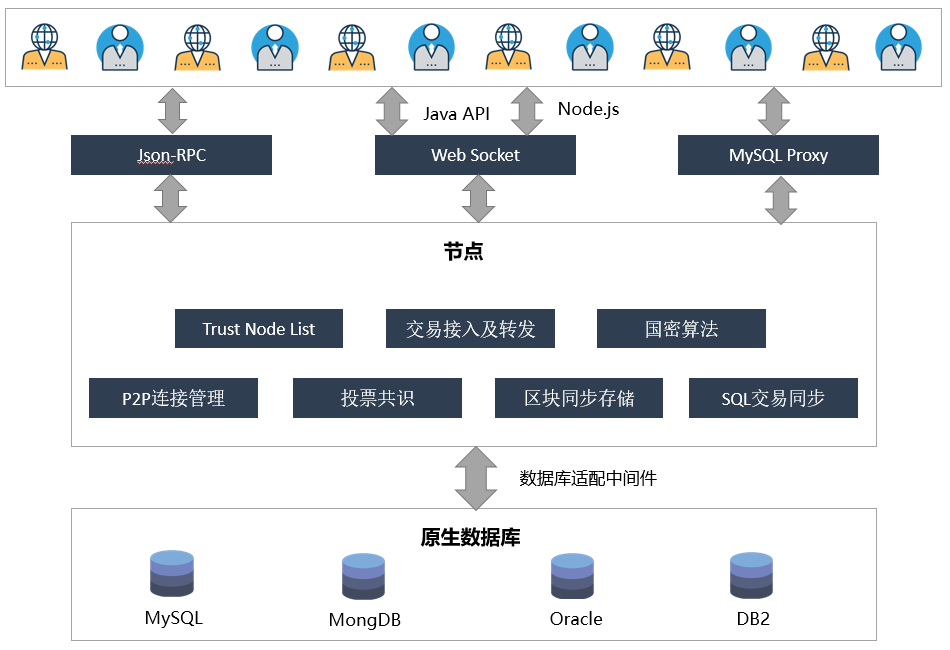
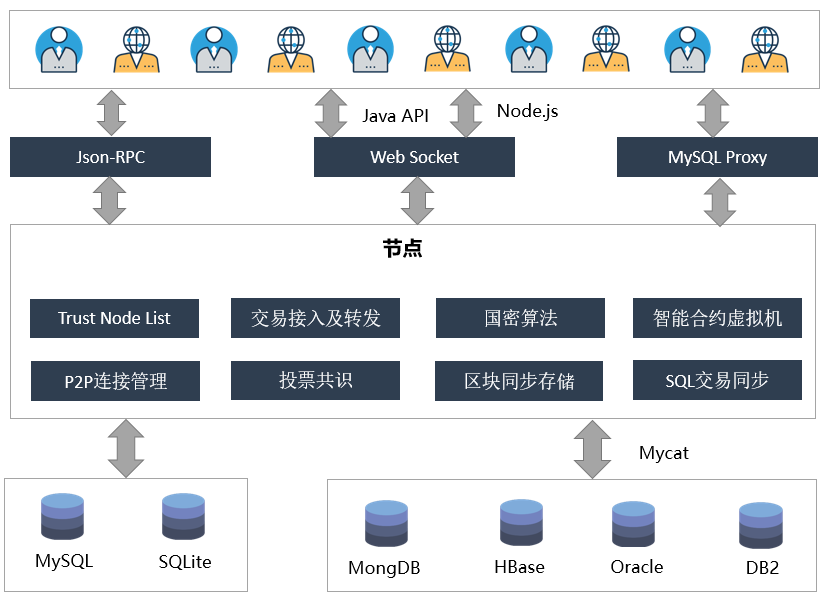
upgrade homepage

diff --git a/source/index.rst b/source/index.rst
@@ -1,27 +1,44 @@
-ChainSQL
-========
 
 .. image:: ../images/logo.png
     :width: 301px
     :alt: ChainSQL logo
     :align: center
 
+ChainSQL
+===============
 ChainSQL是全球首个基于区块链的数据库应用平台，基于开源项目Ripple建立，众享比特公司负责日常维护开发。
 
 设计目的
+===============
     在不改原有项目整体结构的前提下，在逻辑层与数据层之间加入区块链，使得对数据库的操作记录不可更改、可追溯，并且与传统数据库相关项目对接比较方便。
 
 功能
-    2016年初开始开发， 目前最新版本是0.30.3，支持功能包括：
+===============
+2016年初开始开发， 目前最新版本是0.30.3，支持功能包括：
 
-- 货币发行、转账、交易所
-- 数据库表操作
-- solidity语言编写的智能合约
+1. Ripple原有功能
+---------------------
+
+- 网关发行代币
+- 代币的托管
+- 去中心化交易所
+
+2. 数据库表操作
+---------------------
+- DDL：建表、表授权、删除表、表重命名
+- DML：插入、更新、删除、查询（支持复杂查询）
+- 数据库事务：可同时对多张表进行操作
+
+3. 智能合约
+------------------------------------------
+- 无缝兼容以太坊智能合约
+- solidity语法中增加了对表操作的指令
+- solidity语法中增加对Ripple代币的操作指令(进行中）
 
 系统架构
-
+===============
     .. image:: ../images/ChainSQL.png
-        :width: 626px
+        :width: 622px
         :alt: ChainSQL Framework
         :align: center
 
@@ -45,13 +62,11 @@ ChainSQL是全球首个基于区块链的数据库应用平台，基于开源项
     :maxdepth: 2
     :caption: 功能介绍
 
-    functions/recordLevel
-    functions/raw
-    
-..
     functions/currency
     functions/tableOperation
     functions/smartContract
+    functions/recordLevel
+    functions/raw
 
 .. toctree::
    :maxdepth: 2

diff --git a/source/functions/currency.rst b/source/functions/currency.rst
@@ -1,15 +1,5 @@
-货币发行
+代币发行
 ===========
 
-    Chainsql是基于Ripple开源项目开发的，Ripple这个开源项目上有很多生态，其中最核心的当属瑞波支付协议（Ripple Transaction Protocol）：
+   待更新...
 
-    1. 两个用户之间可以即时、直接转账，无需任何中介；
-    2. 通过它，可以进行各种货币或类货币的转账，比如美元、欧元、日元、人民币、黄金、航空里程等等；
-    3. 它是基于区块链技术开发的，有着一个由网络中的服务器共同维护的共同账本，服务器不一定属于瑞波公司，而可以属于任何人，比如银行等金融机构；
-    4. 模仿了比特币，它基于区块链推出了自己的数字货币瑞波币（XPR），以帮助金融机构进行转账
-
-网关设置
----------
-
-信任网关
-----------

diff --git a/source/functions/smartContract.rst b/source/functions/smartContract.rst
@@ -1,9 +1,5 @@
 智能合约
 ================
 
+   待更新...
 
-用法
--------
-
-与以太坊智能合约的不同
-------------------------

diff --git a/source/functions/tableOperation.rst b/source/functions/tableOperation.rst
@@ -1,9 +1,4 @@
 数据库表操作
 =============
 
-
-表操作
--------
-
-表内容操作
-----------
+   待更新...
